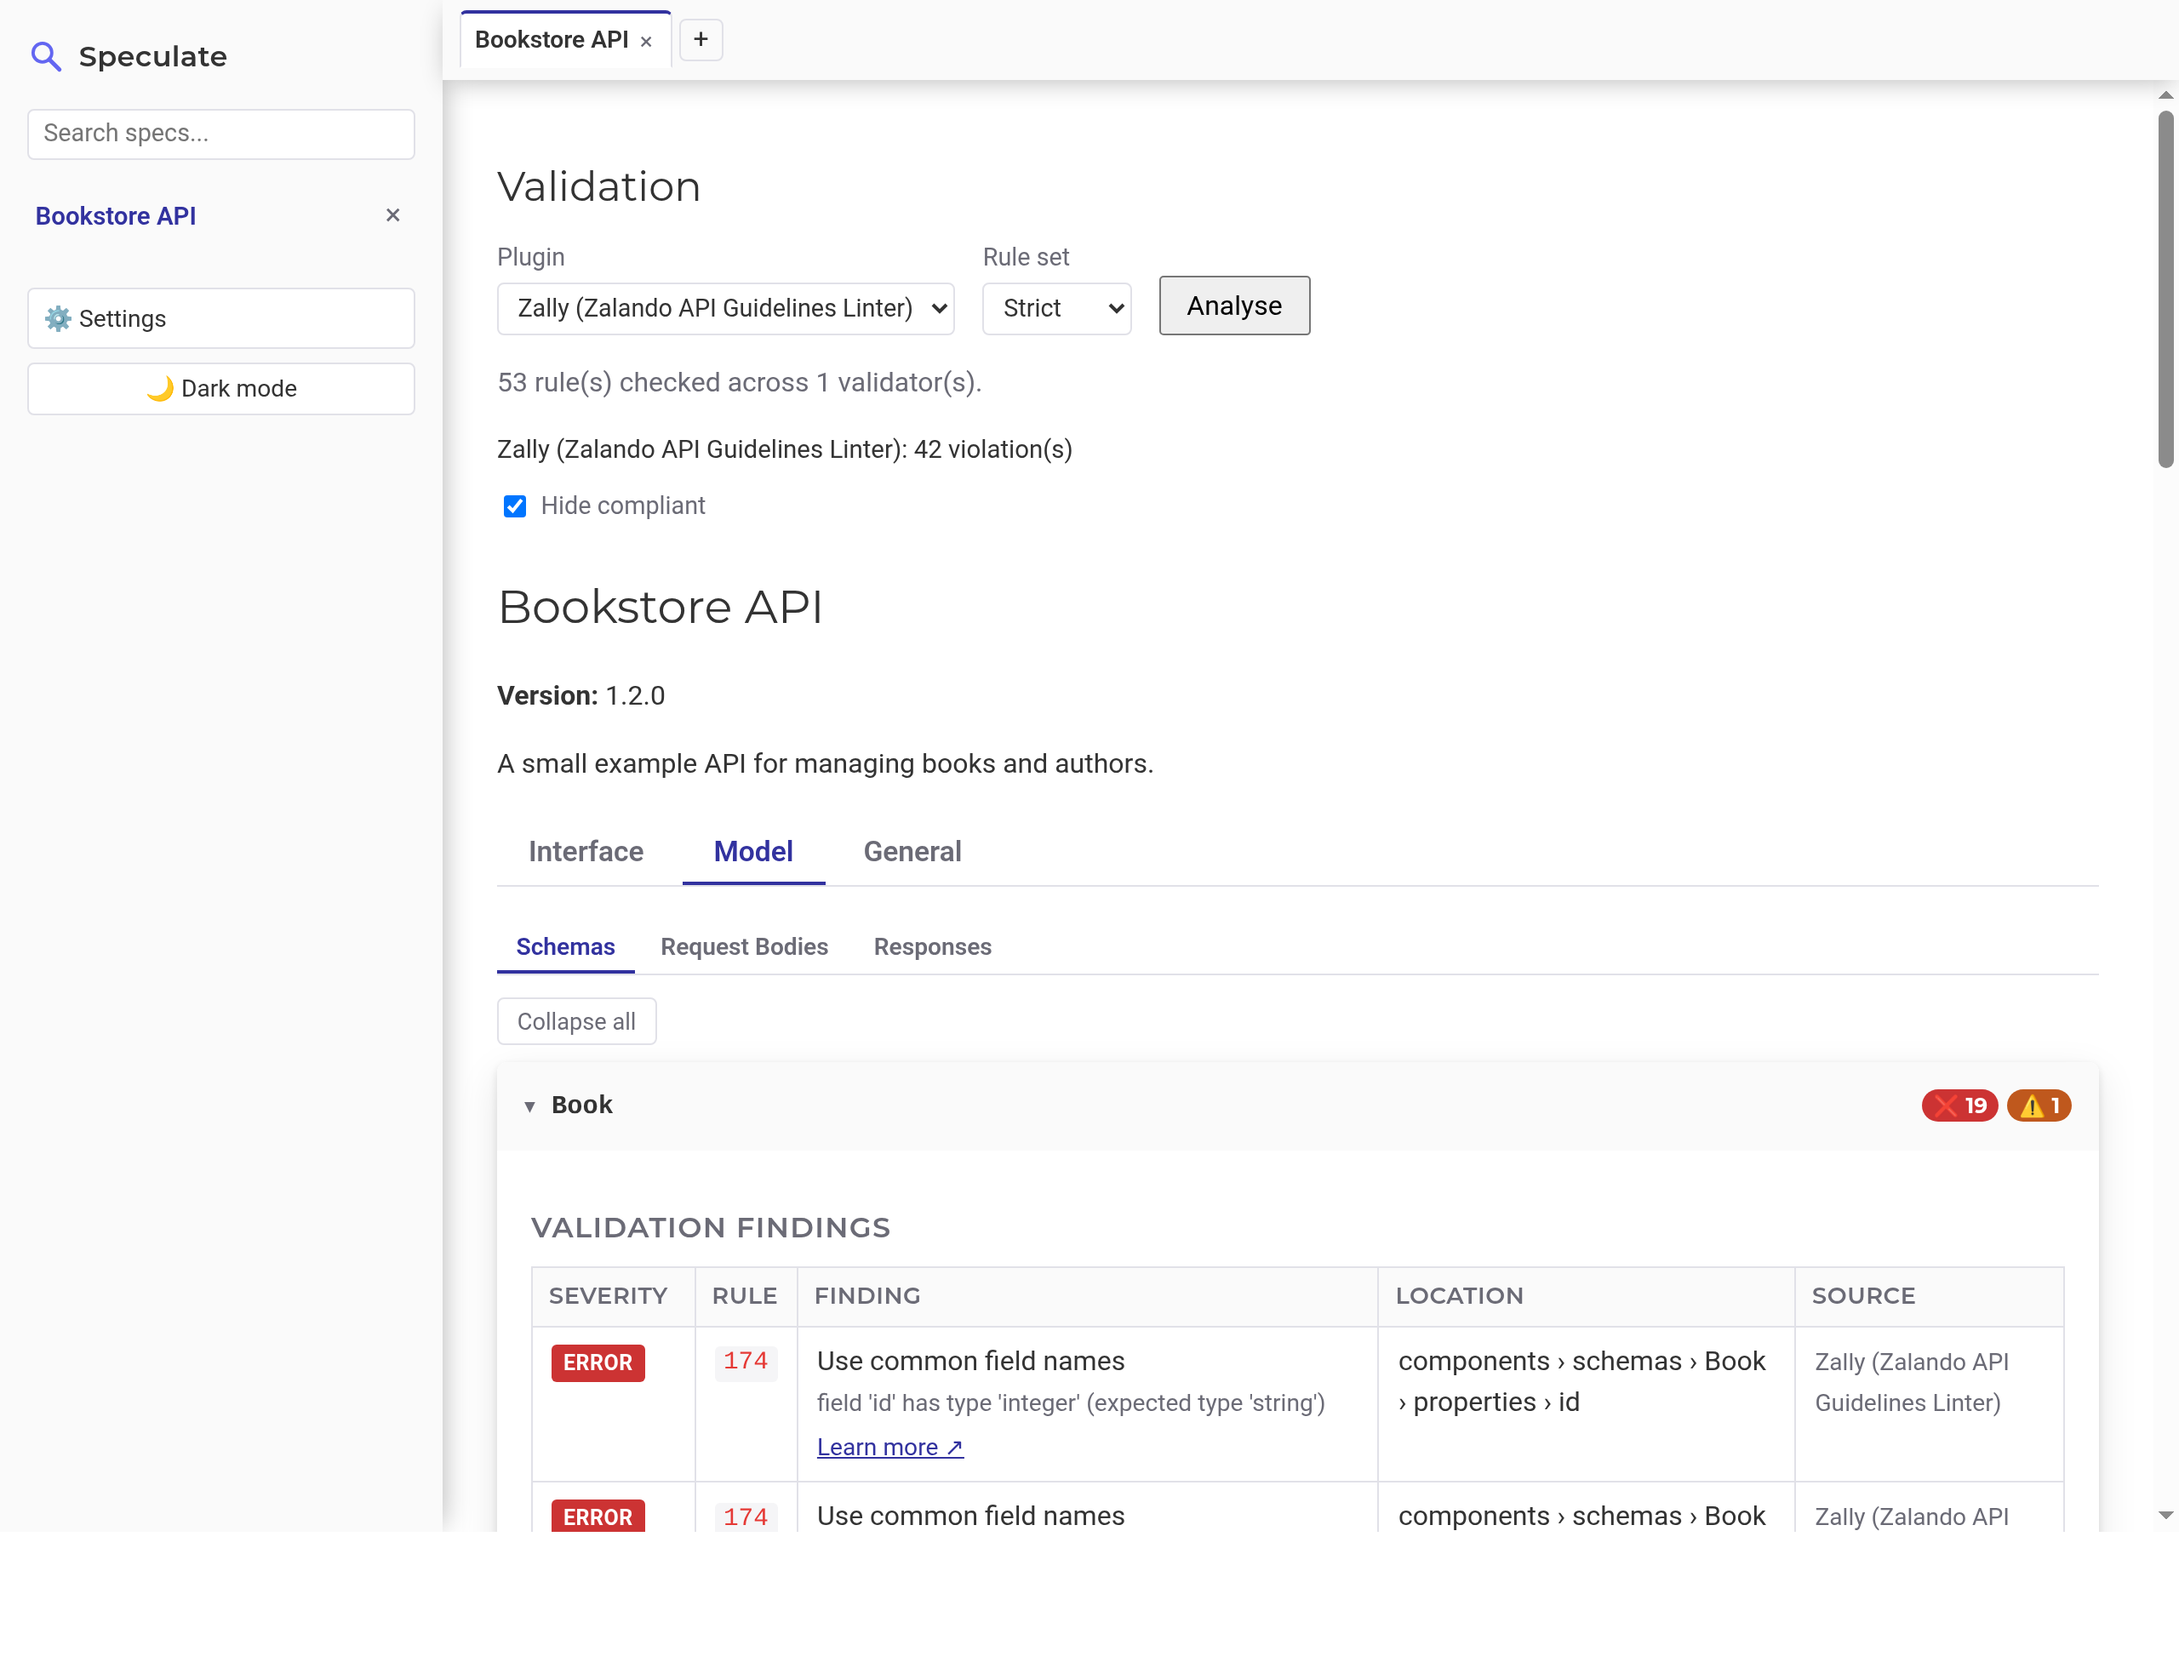
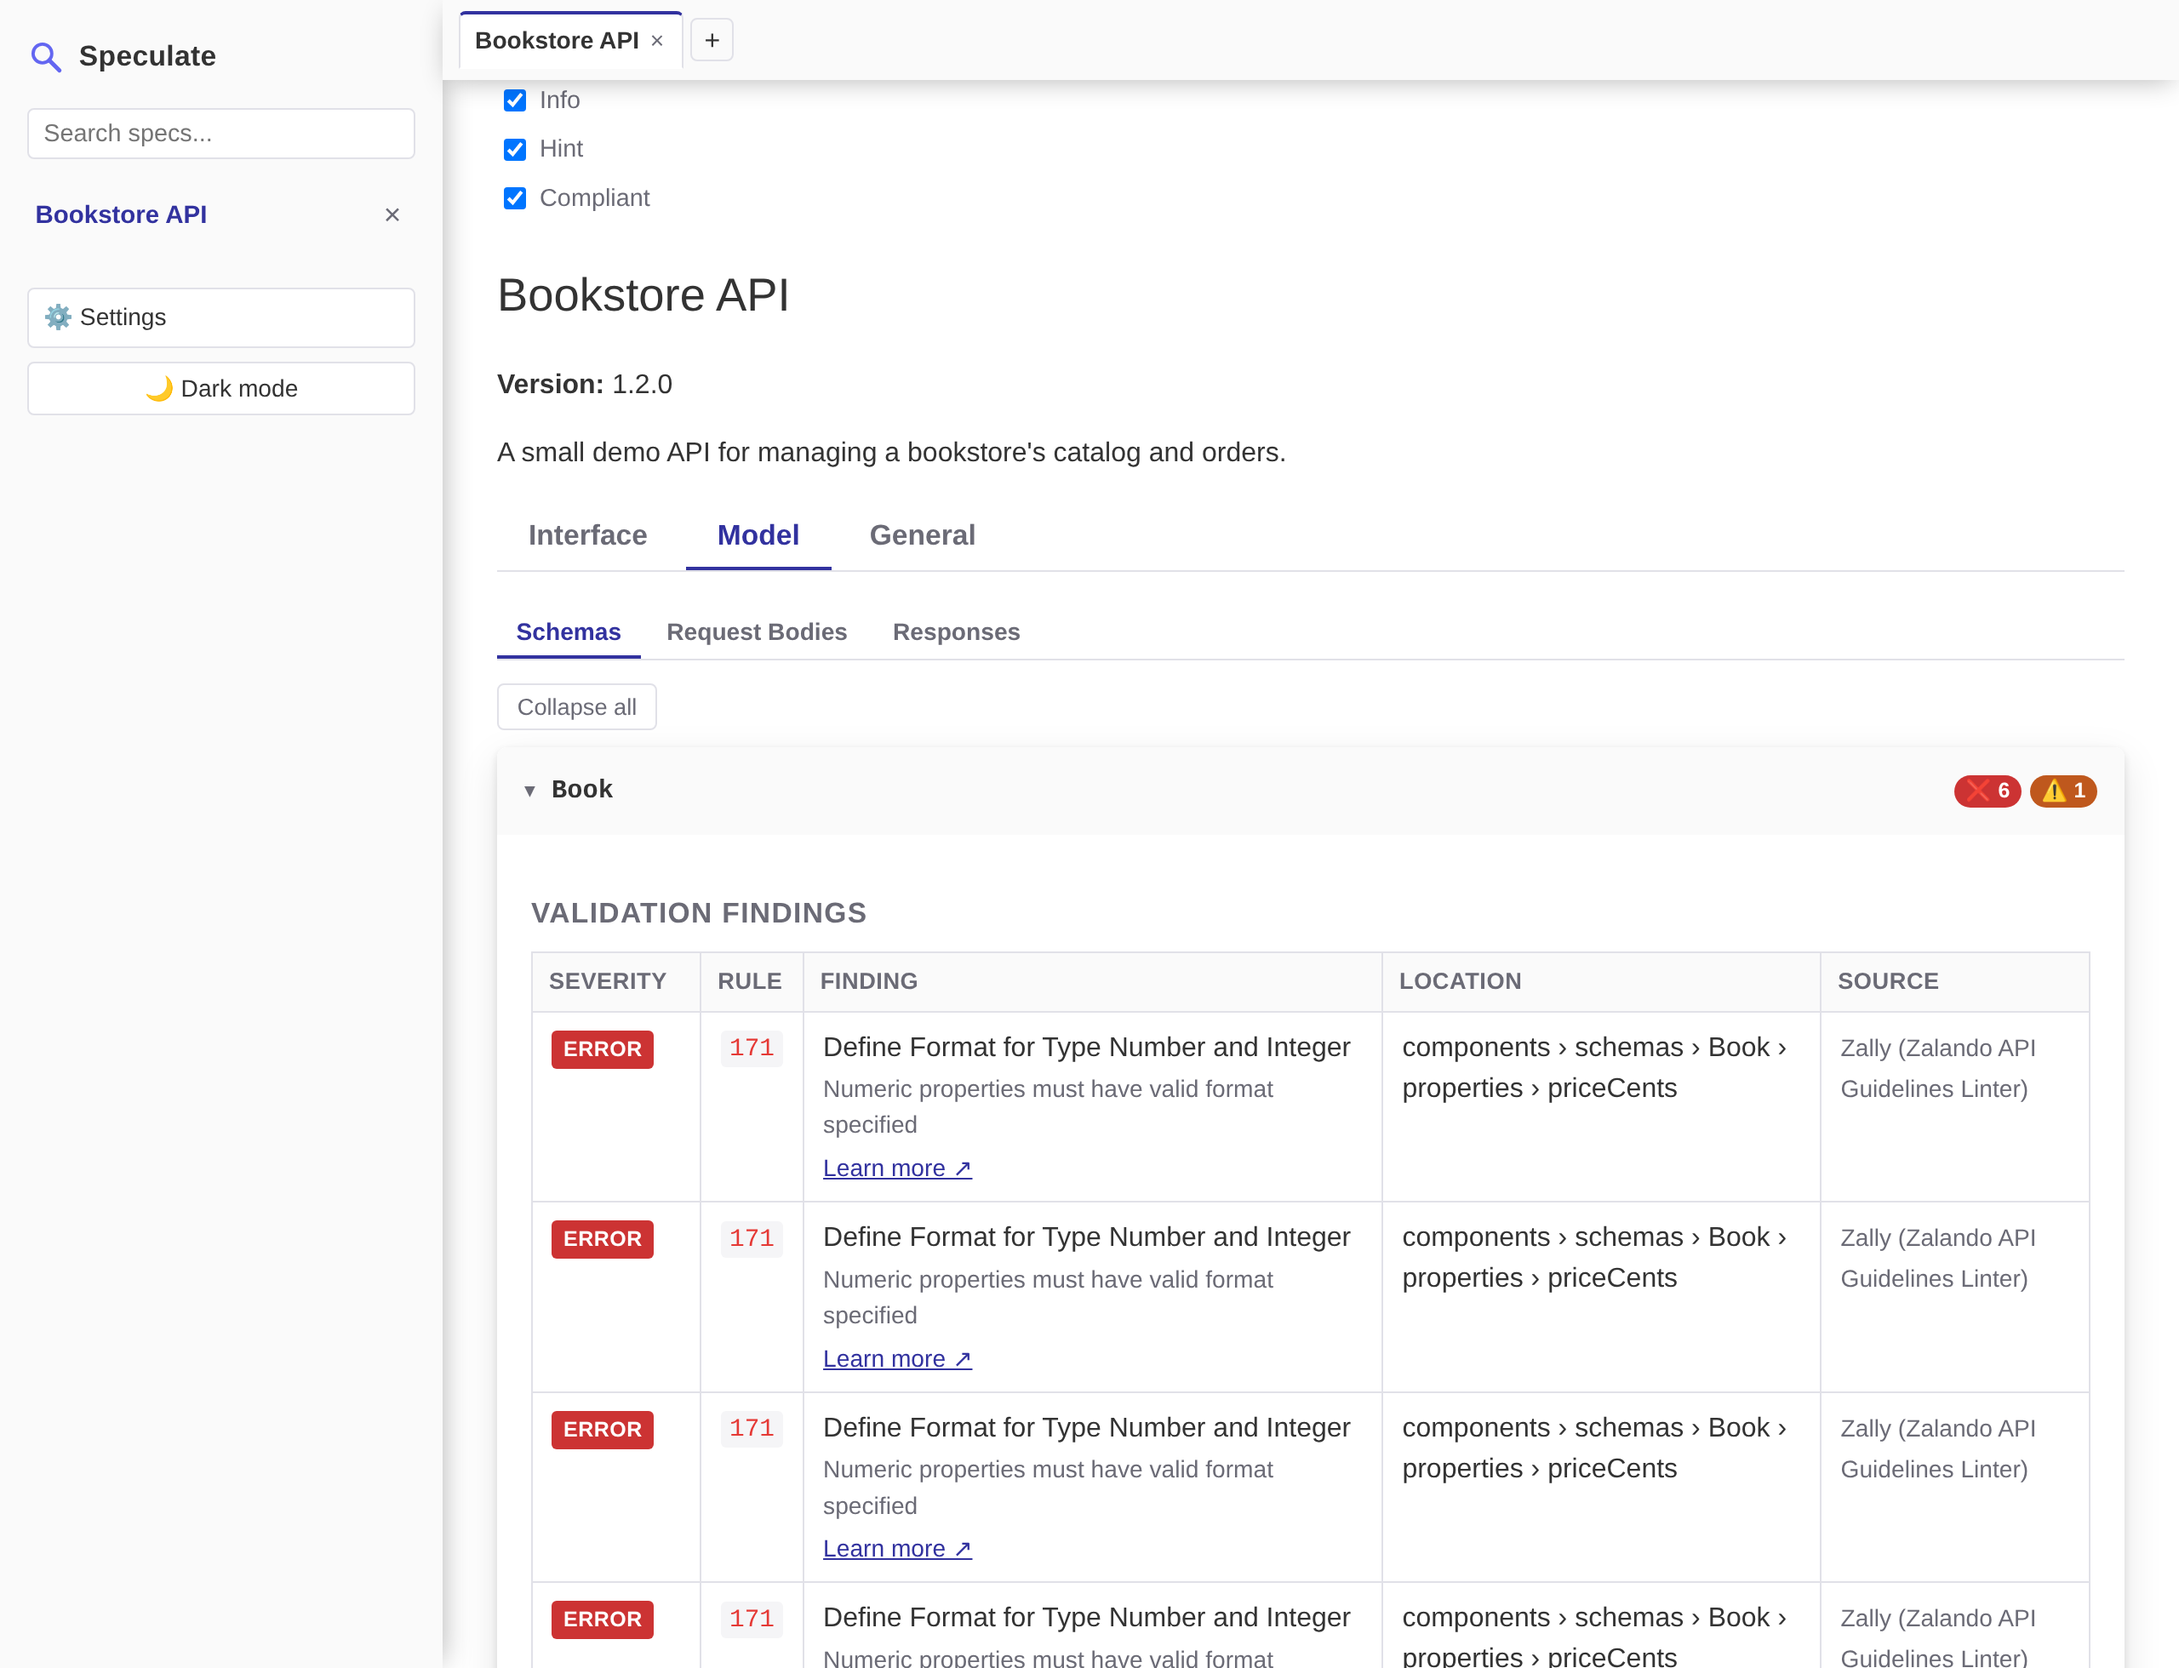
Refresh docs screenshots for the multi-plugin picker, add two more
screenshot.png/-model.png/-validation.png were still showing the old
single-plugin dropdown; recaptured all three against a fresh Bookstore
API demo spec running the new checkbox-table picker. Also added
screenshot-general.png (the General tab's spec-level findings) and
screenshot-settings.png (global plugin enable/disable), neither of
which had ever been shown on the site.

diff --git a/docs/index.html b/docs/index.html
@@ -69,7 +69,13 @@
     <img class="screenshot" src="screenshot-model.png" alt="Speculate's Model tab showing a Book schema with validation findings and its property tree">
 
     <p class="lede" style="margin-top: 2.2rem;">Check off which plugins to run and pick each one's rule set, click Analyse, and findings from all of them appear merged as badges on exactly the endpoint or schema they apply to — filter by severity, in the plugin's own vocabulary, down to just what needs attention.</p>
-    <img class="screenshot" src="screenshot-validation.png" alt="Speculate's validation picker with a plugin and rule set selected, and a GET /books endpoint showing two findings">
+    <img class="screenshot" src="screenshot-validation.png" alt="Speculate's validation picker with two plugins checked and their rule sets selected, a severity filter showing a score impact percentage, and a GET /books endpoint showing its merged findings">
+
+    <p class="lede" style="margin-top: 2.2rem;">Findings that aren't about any one endpoint or schema — missing API metadata, contact info, and the like — land in their own General tab instead of getting dropped.</p>
+    <img class="screenshot" src="screenshot-general.png" alt="Speculate's General tab listing validation findings against the spec's info block, not tied to any specific endpoint">
+
+    <p class="lede" style="margin-top: 2.2rem;">Toggle any plugin off globally from Settings — it stays loaded but sits out of every spec's picker until switched back on.</p>
+    <img class="screenshot" src="screenshot-settings.png" alt="Speculate's Settings page listing the Zally validator plugin with its id and an Enabled status">
   </section>
 
   <section id="features">
